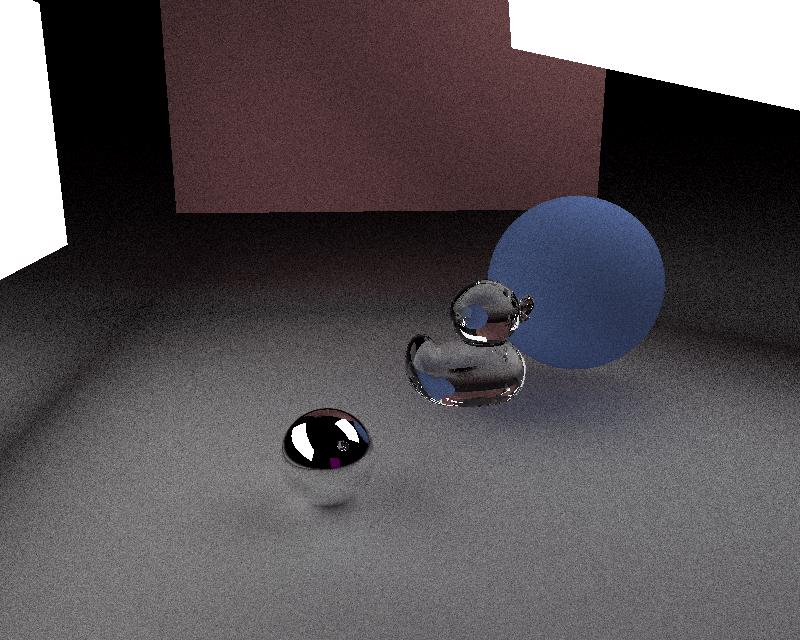
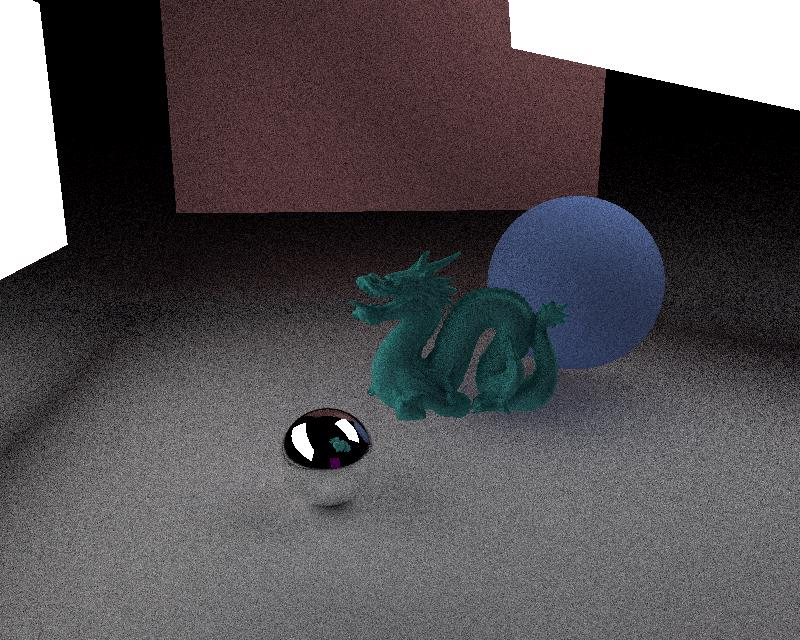
new pics

diff --git a/README.md b/README.md
@@ -7,6 +7,7 @@ Henzai (遍在) meaning ubiquitous, is a cross platform 3D rendering engine usin
 ![Raytracer](/docs/Pictures/display.jpg)
 ![RaytracerMesh](/docs/Pictures/display_mesh.jpg)
 ![RaytracerMesh_2](/docs/Pictures/display_mesh_2.jpg)
+![RaytracerMesh_3](/docs/Pictures/display_mesh_3.jpg)
 ## Resources
 
 ### Graphics
